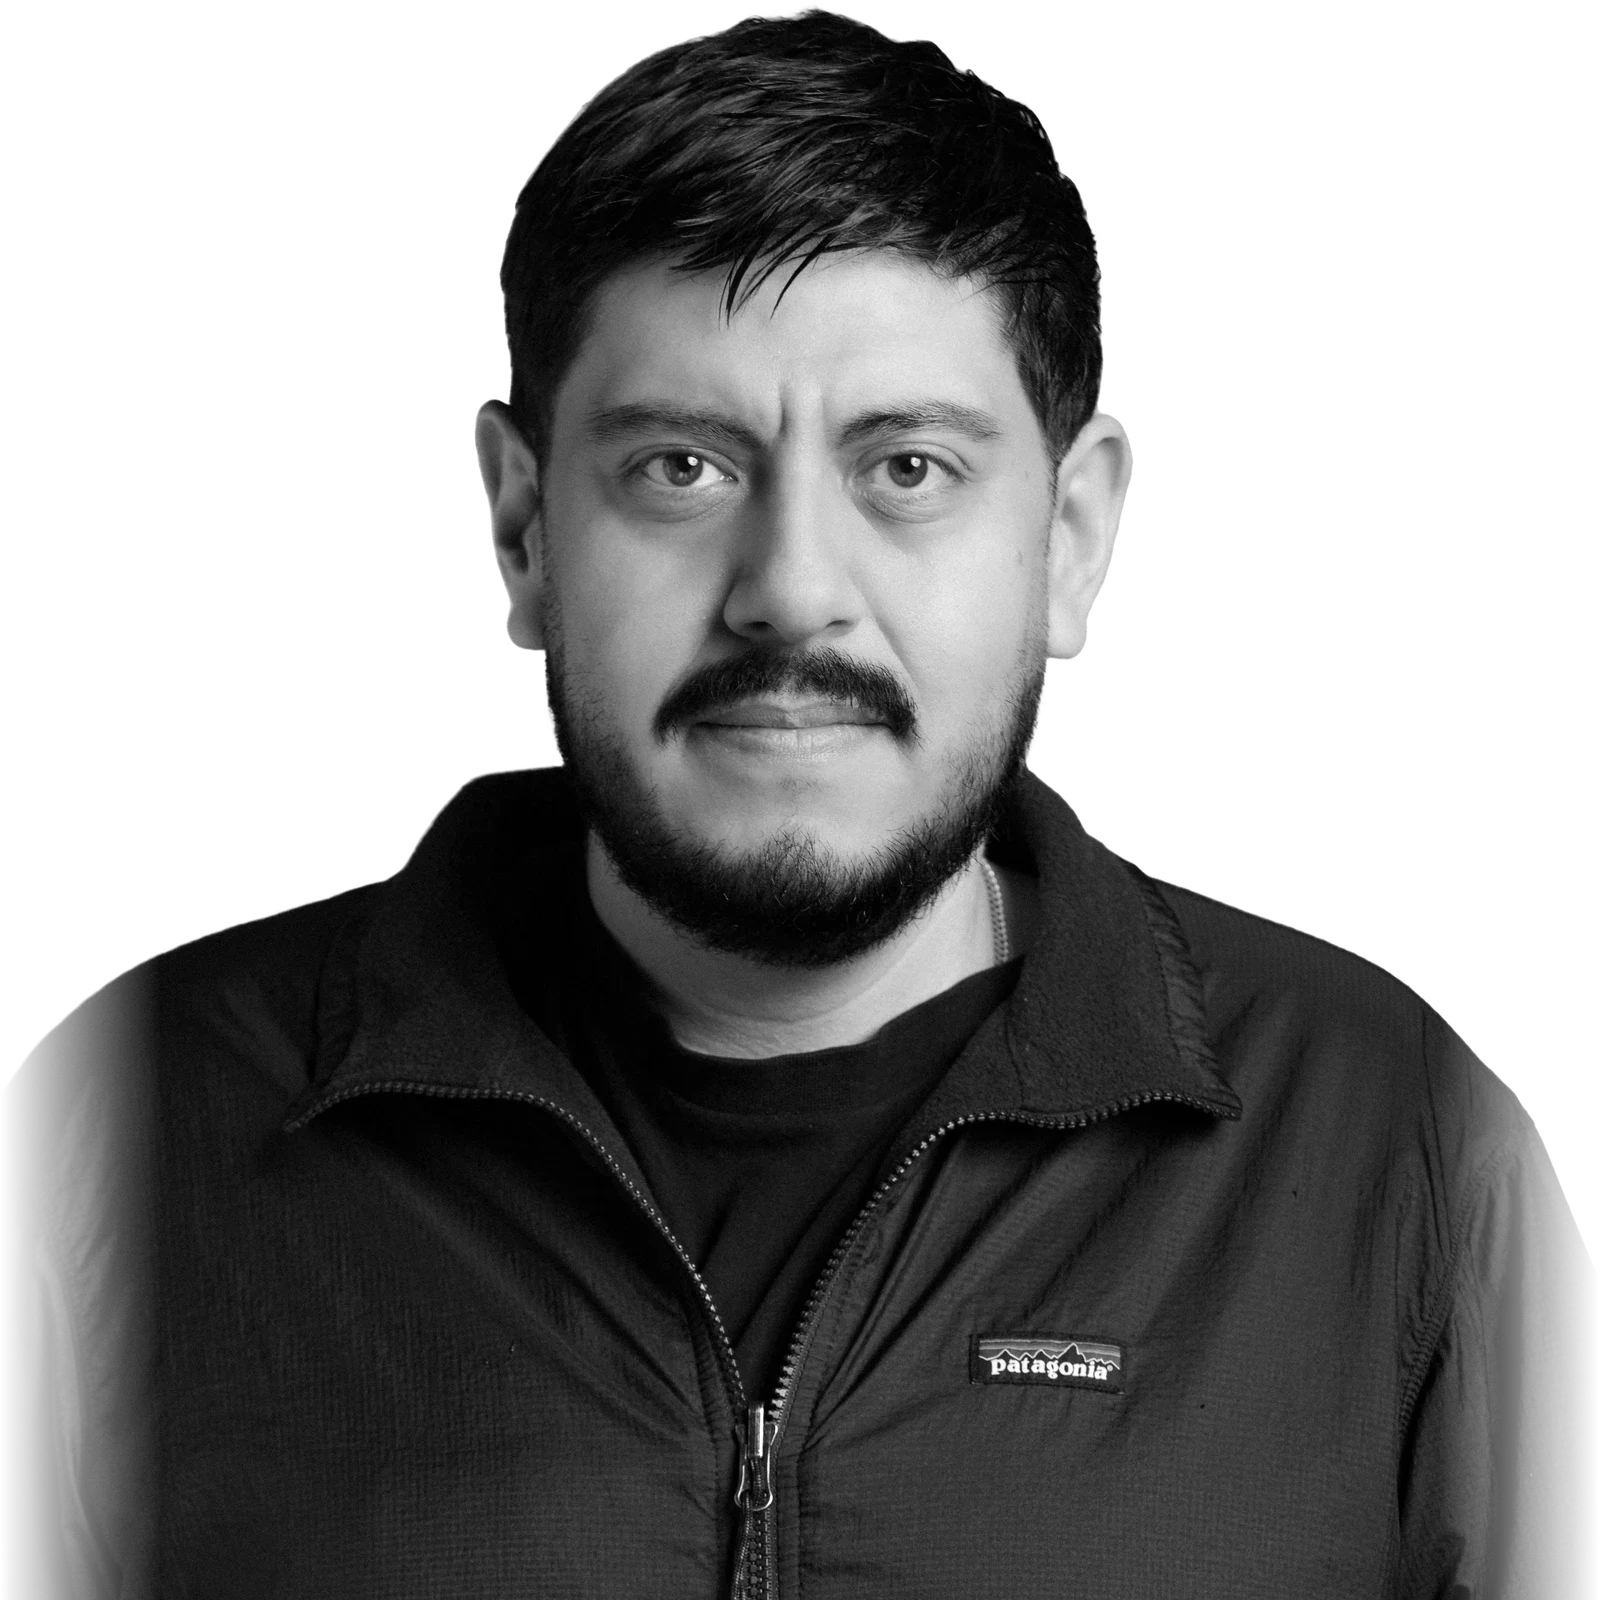
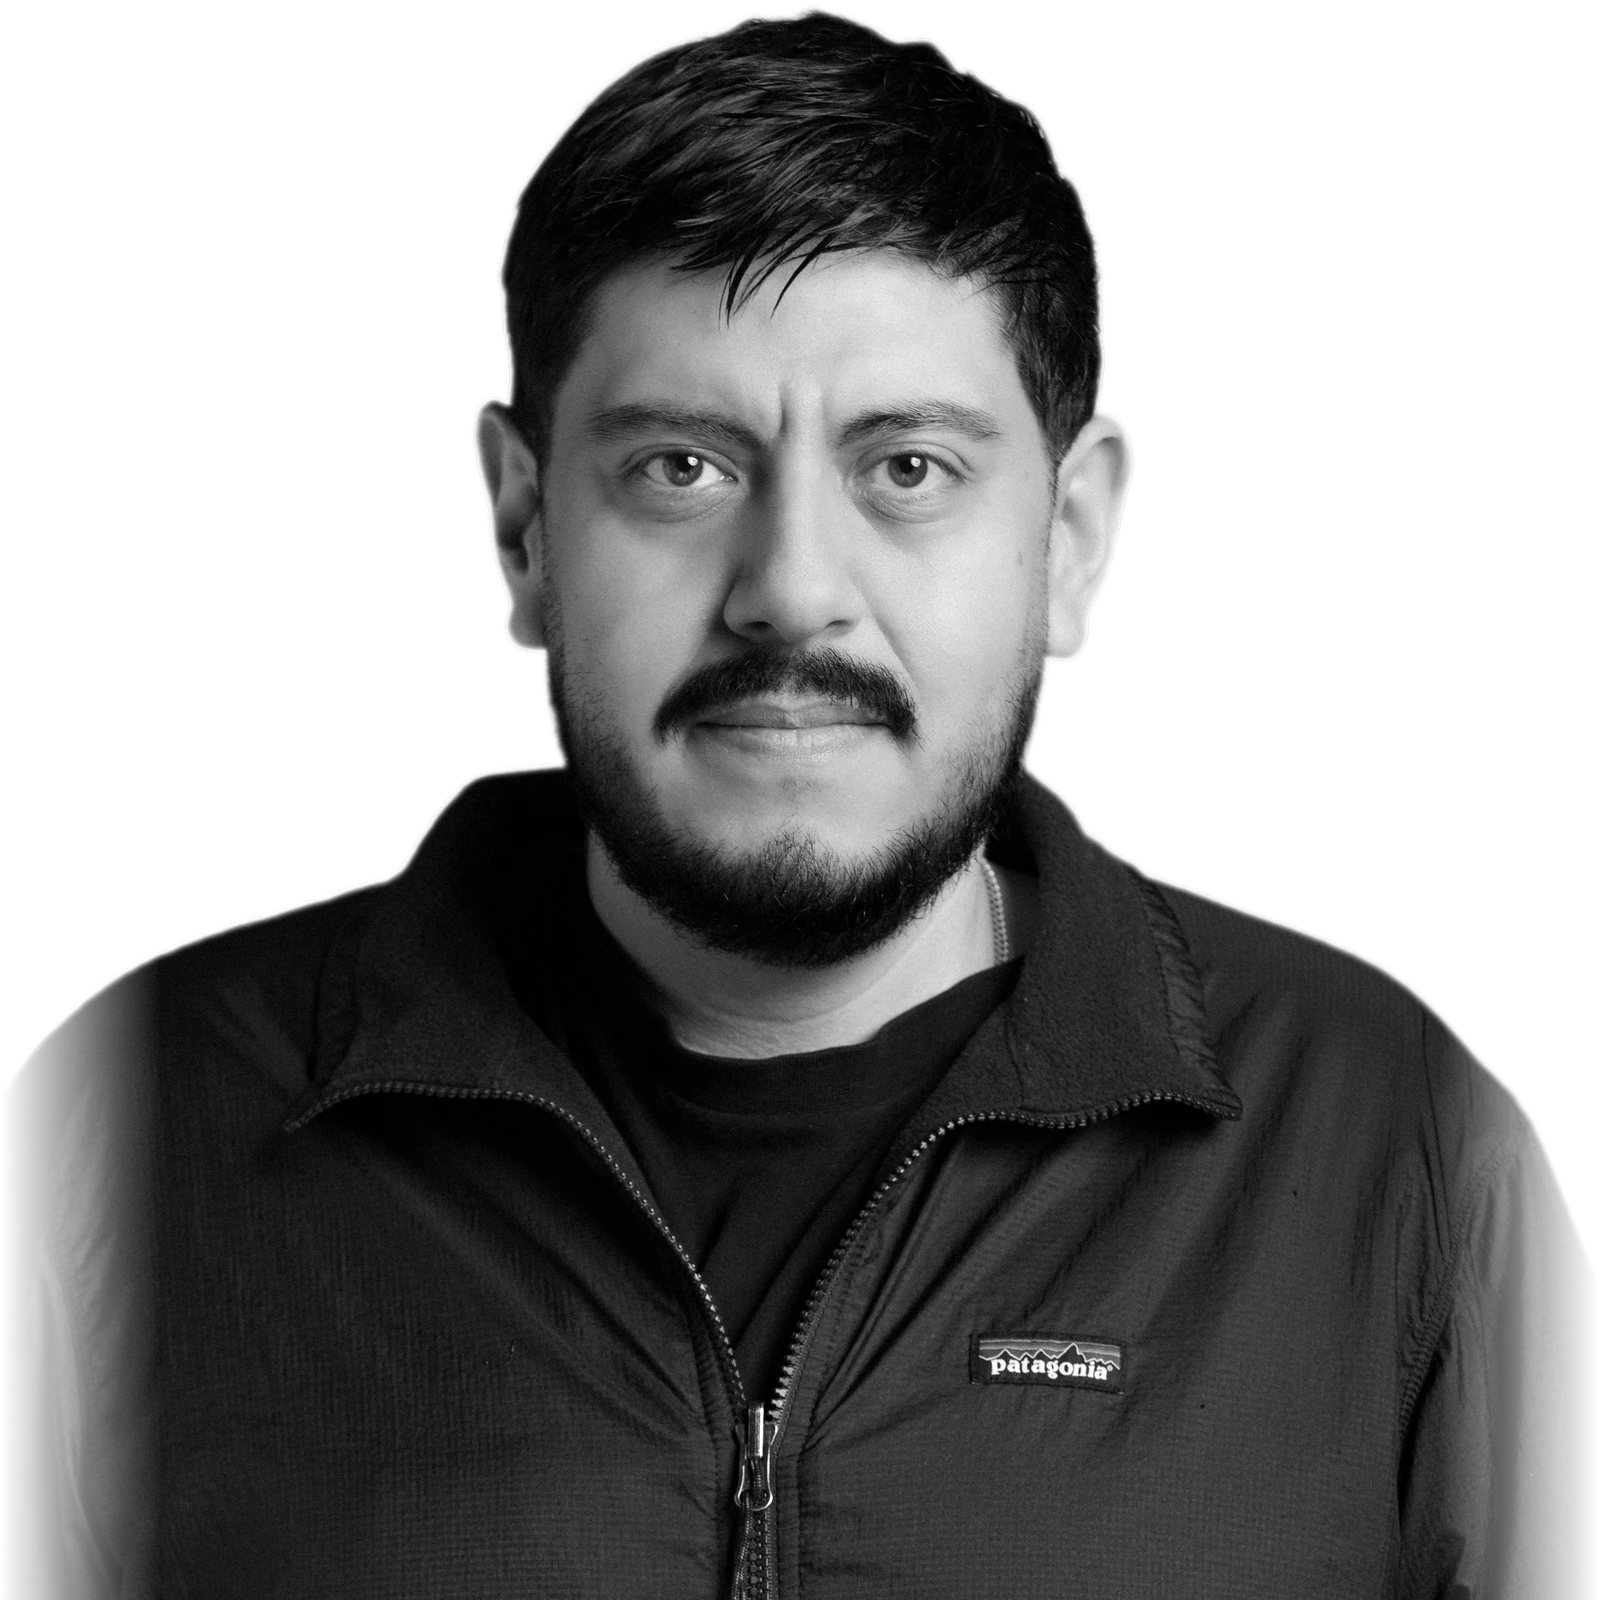
Fix hard cutout edges, add RobTube, add premium motion touches
- Re-cut the hero portrait: the original background removal left a
  hard 0/255 binary alpha mask (99.4% pure), causing jagged pixelated
  edges around hair and shoulders. Eroded to strip halo fringing and
  feathered the whole silhouette with a Gaussian blur on the alpha
  channel, so it blends cleanly into the page background.
- Added RobTube (robtube.org) as work item 08: a privacy-first
  video/audio downloader, linked out like the other shipped products.
- Added a scroll progress bar, a cursor-reactive glow in the hero,
  magnetic hover on all yellow CTA buttons, pause-on-hover for the
  studio marquee/ticker, and a per-word stagger reveal for section
  headlines (split into spans, animated in on scroll).

diff --git a/index.html b/index.html
@@ -62,6 +62,9 @@
 </head>
 <body>
 
+<!-- ======= SCROLL PROGRESS ======= -->
+<div class="scroll-progress" id="scrollProgress" aria-hidden="true"><i></i></div>
+
 <!-- ======= PRELOADER ======= -->
 <div class="preloader" id="preloader" aria-hidden="true">
   <div class="pre-logo">ROBERTODIAZ<span>&reg;</span></div>
@@ -86,6 +89,7 @@
 
 <!-- ======= HERO (full-bleed landing) ======= -->
 <section class="hero" id="home">
+  <div class="hero-glow" id="heroGlow" aria-hidden="true"></div>
   <h1 class="hero-giant" aria-label="DIAZ" data-depth="0.14"><span class="g g1">D</span><span class="g g2">I</span><span class="g g3">A</span><span class="g g4">Z</span></h1>
 
   <div class="hero-portrait-wrap intro-portrait" data-depth="-0.04">
@@ -207,7 +211,7 @@
   <!-- ABOUT (interactive flip cards) -->
   <section class="section" id="about">
     <p class="eyebrow reveal">About Me <span class="amp">(&amp;)</span></p>
-    <h2 class="h2 reveal d-1">Both Worlds.<br/>One Person.</h2>
+    <h2 class="h2 split-reveal">Both Worlds.<br/>One Person.</h2>
     <p class="section-intro reveal d-2">Nine years across live production, post-production, creative agencies, and enterprise entertainment. Most IT people don't get creative work, and most creatives don't get enterprise tech. I've lived in both. Flip the cards.</p>
 
     <div class="flip-grid">
@@ -288,7 +292,7 @@
   <!-- MY WORK -->
   <section class="section" id="work">
     <p class="eyebrow reveal">Selected Work</p>
-    <h2 class="h2 reveal d-1">Built to<br/>Perform</h2>
+    <h2 class="h2 split-reveal">Built to<br/>Perform</h2>
     <p class="section-intro reveal d-2">Systems I've designed, built, and run. Different rooms, same standard: it has to work every single day, for the people who rely on it.</p>
 
     <div class="work-list">
@@ -348,13 +352,21 @@
           <p>A native Mac app that syncs events between calendars already set up in Apple Calendar. No OAuth, no new login, no blocked SAML integrations, all local.</p>
         </div>
       </a>
+      <a class="work-row reveal" href="https://www.robtube.org" target="_blank" rel="noopener">
+        <span class="work-num">08</span>
+        <div class="work-body">
+          <div class="work-tags"><span>Web</span><span>Privacy-First</span></div>
+          <h3>RobTube <span class="work-ext">&nearr;</span></h3>
+          <p>Paste a link, get the video or the MP3. Everything runs client-side in the browser, nothing is uploaded or stored on a server.</p>
+        </div>
+      </a>
     </div>
   </section>
 
   <!-- WHAT YOU GET -->
   <section class="section" id="what-you-get">
     <p class="eyebrow reveal">Capabilities Overview</p>
-    <h2 class="h2 reveal d-1">What<br/>You Get?</h2>
+    <h2 class="h2 split-reveal">What<br/>You Get?</h2>
     <p class="section-intro reveal d-2">One person who understands enterprise technology and how creative work actually gets made. Nothing lost in translation.</p>
 
     <div class="cap-list">
@@ -369,7 +381,7 @@
   <!-- SERVICES -->
   <section class="section" id="services">
     <p class="eyebrow reveal">Services</p>
-    <h2 class="h2 reveal d-1">Consulting for<br/>Creative Companies</h2>
+    <h2 class="h2 split-reveal">Consulting for<br/>Creative Companies</h2>
     <p class="section-intro reveal d-2">For studios, post houses, trailer houses, agencies, and production companies. Same attention to detail, scoped to what you need right now.</p>
 
     <div class="svc-grid">
@@ -434,7 +446,7 @@
   <!-- FAQ -->
   <section class="section" id="faq">
     <p class="eyebrow reveal">FAQ</p>
-    <h2 class="h2 reveal d-1">Got any<br/>questions?</h2>
+    <h2 class="h2 split-reveal">Got any<br/>questions?</h2>
 
     <div class="faq-grid">
       <div class="faq-item reveal bounce"><button class="faq-q">What kind of companies do you work with?<span>+</span></button><div class="faq-a"><p>Studios, post houses, trailer houses, agencies, production companies, and growing businesses. Anywhere technology needs to quietly power creative work instead of getting in its way.</p></div></div>
@@ -448,7 +460,7 @@
 
   <!-- CONTACT -->
   <section class="section contact" id="contact">
-    <h2 class="contact-h reveal">Have something<br/>in mind?</h2>
+    <h2 class="contact-h split-reveal">Have something<br/>in mind?</h2>
     <a href="mailto:hi@robertodiaz.co" class="btn-yellow btn-big roll-btn reveal d-1">Let's Talk</a>
     <div class="contact-links reveal d-2">
       <button class="contact-pill" id="copyEmail2">hi@robertodiaz.co

diff --git a/styles.css b/styles.css
@@ -87,12 +87,31 @@ button { font: inherit; color: inherit; background: none; border: 0; cursor: poi
 .float-1 > div, .float-2 > div { animation: floatBob 5.5s ease-in-out 3.4s infinite; }
 .float-2 > div { animation-duration: 6.5s; }
 
+/* ---------- scroll progress bar ---------- */
+.scroll-progress { position: fixed; top: 0; left: 0; right: 0; height: 3px; z-index: 998; background: transparent; }
+.scroll-progress i { display: block; height: 100%; width: 0%; background: var(--yellow); box-shadow: 0 0 12px rgba(255,255,35,.6); transition: width .1s linear; }
+
+/* ---------- hero cursor glow ---------- */
+.hero-glow {
+  position: absolute; inset: 0; z-index: 1; pointer-events: none;
+  background: radial-gradient(560px circle at var(--gx, 50%) var(--gy, 40%), rgba(255,255,35,.20), transparent 62%);
+  opacity: 0; transition: opacity .5s ease;
+}
+.hero:hover .hero-glow { opacity: 1; }
+
+/* ---------- split-word headline reveal ---------- */
+.split-reveal .word { display: inline-block; overflow: hidden; vertical-align: top; padding-bottom: .08em; margin-bottom: -.08em; }
+.split-reveal .word-inner { display: inline-block; transform: translateY(112%); transition: transform .75s var(--spring); }
+.split-reveal.in .word-inner { transform: translateY(0); }
+
 @media (prefers-reduced-motion: reduce) {
   .preloader { display: none; }
   .reveal, .reveal.bounce { opacity: 1; transform: none; transition: none; }
   .hero-giant .g, .intro-portrait, .intro-rise, .intro-pop, .intro-pop-2, .intro-late { animation: none; opacity: 1; }
   .float-1 > div, .float-2 > div { animation: none; }
   .marquee-track, .ticker-track { animation: none !important; }
+  .split-reveal .word-inner { transform: none; transition: none; }
+  .hero-glow { display: none; }
   html { scroll-behavior: auto; }
 }
 
@@ -276,6 +295,7 @@ button { font: inherit; color: inherit; background: none; border: 0; cursor: poi
 
 .side-ticker { padding: 12px 0; overflow: hidden; -webkit-mask-image: linear-gradient(to right, transparent, black 12%, black 88%, transparent); mask-image: linear-gradient(to right, transparent, black 12%, black 88%, transparent); }
 .ticker-track { display: flex; align-items: center; gap: 16px; width: max-content; animation: marquee 26s linear infinite; }
+.side-ticker:hover .ticker-track { animation-play-state: paused; }
 .ticker-track span { font-family: var(--font-display); font-weight: 900; font-size: 13px; letter-spacing: .05em; white-space: nowrap; color: var(--ink); }
 .ticker-track i { font-style: normal; color: #111; font-size: 10px; opacity: .5; }
 
@@ -296,6 +316,7 @@ button { font: inherit; color: inherit; background: none; border: 0; cursor: poi
 .marquee-label { text-align: center; font-size: 11px; font-weight: 600; letter-spacing: .2em; text-transform: uppercase; color: var(--ink-faint); margin-bottom: 26px; padding: 0 20px; }
 .marquee { overflow: hidden; -webkit-mask-image: linear-gradient(to right, transparent, black 10%, black 90%, transparent); mask-image: linear-gradient(to right, transparent, black 10%, black 90%, transparent); }
 .marquee-track { display: flex; align-items: center; gap: 44px; width: max-content; animation: marquee 40s linear infinite; }
+.marquee:hover .marquee-track { animation-play-state: paused; }
 .marquee-track span { font-family: var(--font-display); font-weight: 900; font-size: clamp(28px, 3.6vw, 50px); letter-spacing: -.01em; white-space: nowrap; color: var(--ink); }
 .marquee-track i { font-style: normal; color: #9b9800; font-size: 22px; }
 @keyframes marquee { to { transform: translateX(-50%); } }

diff --git a/script.js b/script.js
@@ -15,13 +15,40 @@
     btn.innerHTML = `<span class="roll"><span>${label}</span><span>${label}</span></span>`;
   });
 
+  /* ---------- split-word headline reveal (wraps each word for a per-word rise) ---------- */
+  const splitWords = (el) => {
+    const walker = document.createTreeWalker(el, NodeFilter.SHOW_TEXT);
+    const textNodes = [];
+    let n;
+    while ((n = walker.nextNode())) textNodes.push(n);
+    let wordIndex = 0;
+    textNodes.forEach((node) => {
+      const parts = node.textContent.split(/(\s+)/);
+      const frag = document.createDocumentFragment();
+      parts.forEach((part) => {
+        if (part.trim() === "") { frag.appendChild(document.createTextNode(part)); return; }
+        const outer = document.createElement("span");
+        outer.className = "word";
+        const inner = document.createElement("span");
+        inner.className = "word-inner";
+        inner.textContent = part;
+        inner.style.transitionDelay = wordIndex * 0.045 + "s";
+        wordIndex++;
+        outer.appendChild(inner);
+        frag.appendChild(outer);
+      });
+      node.parentNode.replaceChild(frag, node);
+    });
+  };
+  document.querySelectorAll(".split-reveal").forEach(splitWords);
+
   /* ---------- reveal on scroll ---------- */
   const revealObserver = new IntersectionObserver((entries) => {
     for (const e of entries) {
       if (e.isIntersecting) { e.target.classList.add("in"); revealObserver.unobserve(e.target); }
     }
   }, { threshold: 0.12, rootMargin: "0px 0px -30px 0px" });
-  document.querySelectorAll(".reveal").forEach((el) => revealObserver.observe(el));
+  document.querySelectorAll(".reveal, .split-reveal").forEach((el) => revealObserver.observe(el));
 
   /* ---------- counters ---------- */
   const easeOut = (t) => 1 - Math.pow(1 - t, 3);
@@ -117,6 +144,41 @@
   };
   document.getElementById("copyEmail")?.addEventListener("click", copyEmail);
   document.getElementById("copyEmail2")?.addEventListener("click", copyEmail);
+
+  /* ---------- scroll progress bar ---------- */
+  const progressBar = document.querySelector("#scrollProgress i");
+  if (progressBar) {
+    const onProgress = () => {
+      const max = document.documentElement.scrollHeight - window.innerHeight;
+      const pct = max > 0 ? (window.scrollY / max) * 100 : 0;
+      progressBar.style.width = pct + "%";
+    };
+    onProgress();
+    window.addEventListener("scroll", onProgress, { passive: true });
+    window.addEventListener("resize", onProgress);
+  }
+
+  /* ---------- hero cursor glow ---------- */
+  if (!reduceMotion && hero && matchMedia("(hover: hover)").matches) {
+    hero.addEventListener("mousemove", (e) => {
+      const r = hero.getBoundingClientRect();
+      hero.style.setProperty("--gx", ((e.clientX - r.left) / r.width) * 100 + "%");
+      hero.style.setProperty("--gy", ((e.clientY - r.top) / r.height) * 100 + "%");
+    });
+  }
+
+  /* ---------- magnetic buttons ---------- */
+  if (!reduceMotion && matchMedia("(hover: hover)").matches) {
+    document.querySelectorAll(".btn-yellow").forEach((btn) => {
+      btn.addEventListener("mousemove", (e) => {
+        const r = btn.getBoundingClientRect();
+        const dx = (e.clientX - r.left - r.width / 2) * 0.3;
+        const dy = (e.clientY - r.top - r.height / 2) * 0.3;
+        btn.style.transform = `translate(${dx}px, ${dy}px)`;
+      });
+      btn.addEventListener("mouseleave", () => { btn.style.transform = ""; });
+    });
+  }
 
   /* ---------- back to top ---------- */
   const toTop = document.getElementById("toTop");
